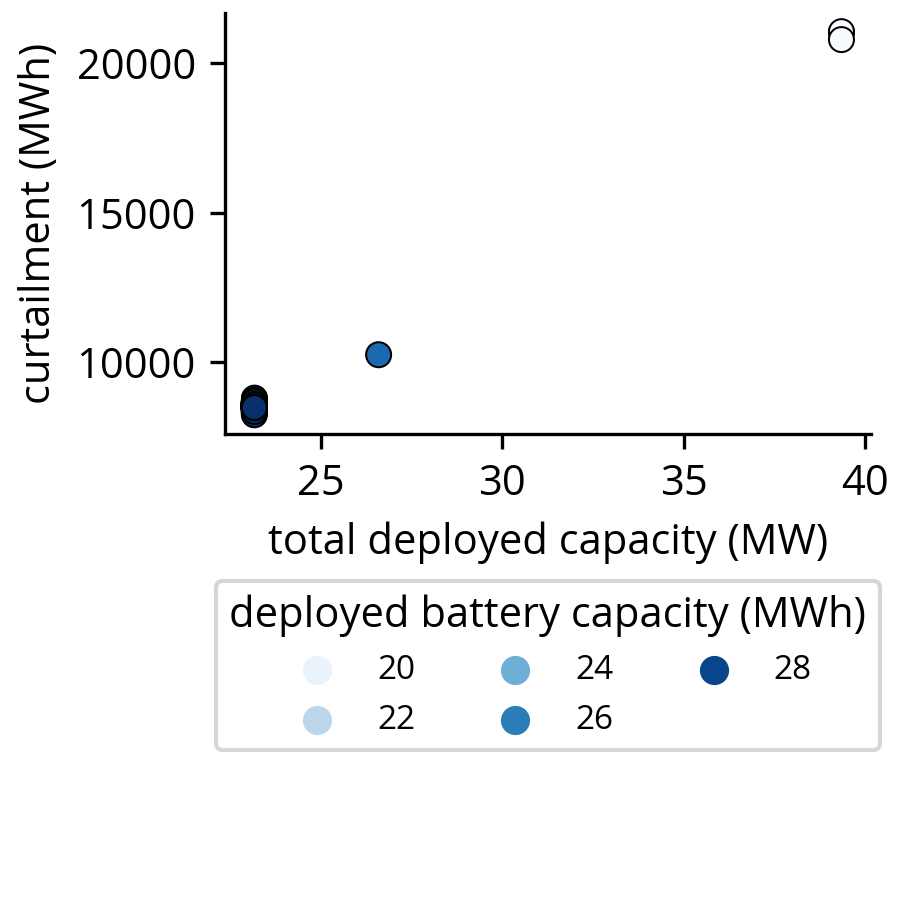
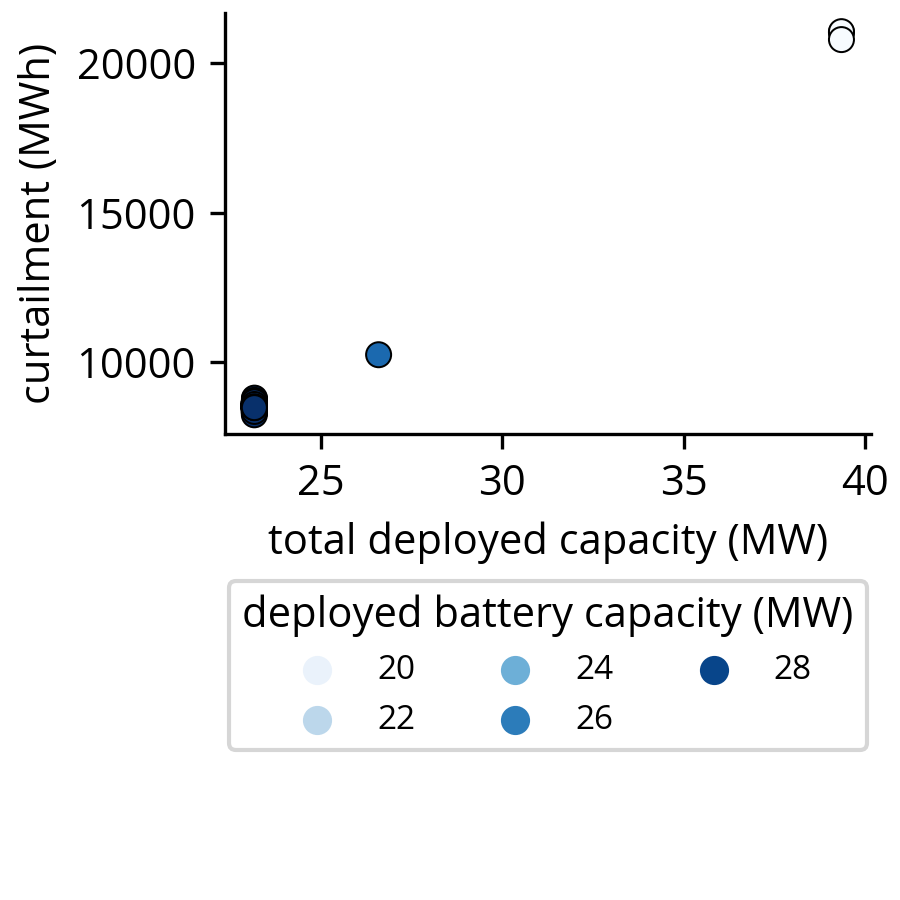
fixe margins etc

Changed region(s): [[0.2178, 0.6533, 0.9956, 0.84]]

diff --git a/thesis scripts/experiments/evhub/analysis/report_evhub_postprocess2_barcharts.py b/thesis scripts/experiments/evhub/analysis/report_evhub_postprocess2_barcharts.py
@@ -24,121 +24,23 @@ experiments, outcomes, db = load_ema_leso_results(
     exp_prefix="evhub",
     results_folder=RESULT_FOLDER)
 
-# ==========================================================================================
-
-grid_cap = 0
-## data selection
-
-df = db.query(f"grid_capacity == {grid_cap}").copy(deep=True)
-exp = open_leso_experiment_file(RESULT_FOLDER / df.filename_export.iat[113])
-
-## needed for more kpis
-spec_yield_pv = (
-    sum(exp.components.pv2.state['power [+]']) /
-    exp.components.pv2.settings.installed 
-)
-tot_yield_wind = sum(exp.components.wind1.state['power [+]'])
-
-## pointers
-pv_col = "PV South installed capacity"
-wind_col = "Nordex N100 2500 installed capacity"
-bat_col = "2h battery installed capacity"
-
-## change / add some data
-df['pv_cost_absolute'] = df.pv_cost_factor * 1020
-df['wind_cost_absolute'] = df.wind_cost_factor * 1350
-df['curtailment'] = -df['curtailment']
-df['total_generation'] = (df[pv_col] * spec_yield_pv + tot_yield_wind)
-df['relative_curtailment'] = df['curtailment'] / df['total_generation'] *100
-df['total_installed_capacity'] = df[pv_col] + df[wind_col]
-
-
-def linear_map(value, ):
-    min, max = 0.41, 0.70 # @@
-    map_min, map_max = 0.42, 0.81 # @@
-
-    frac = (value - min) / (max-min)
-    m_value = frac * (map_max-map_min) + map_min
-
-    return m_value
-
-power_ref = 257
-storage_ref = 277
-
-df["battery_cost_absolute_2h"] = [
-    (bcf * storage_ref *2 + linear_map(bcf)*power_ref)/2
-    for bcf in df["battery_cost_factor"].values
-]
-#%%
-
-cols_of_interest = [pv_col, wind_col, bat_col]
-df_barplot = pd.DataFrame(index=cols_of_interest)
-
-# 3 configs for 0 grid cap
-# max battery deployment
-idx = df[pv_col].argmin()
-df_barplot["Reference"] = df.loc[df.index[idx],cols_of_interest].copy(deep=True)
-# min battery deployment
-idx = df[pv_col].argmax()
-df_barplot["PV oversized"] = df.loc[df.index[idx],cols_of_interest].copy(deep=True)
-# med battery deployment
-subset = df[df[bat_col]< 27.5]
-subset_idx = subset[bat_col].argmax()
-df_barplot["In-between"] = subset.loc[subset.index[subset_idx],cols_of_interest].copy(deep=True)
-
-
-#%% PV Deployment vs absolut cost scatter
-df_barplot.index = ['PV', 'wind', 'li-ion ESS']
-fig, ax = plt.subplots()
-fig, ax = default_matplotlib_style(fig, ax, decrease_legend=False)
-fig.set_size_inches(4,3)
-color={"PV": "#edc645", "wind": "steelblue", 'li-ion ESS': "dimgrey"}
-df_barplot.T.plot.bar(stacked=True, ax=ax, color=color)
-
-ax.set_ylabel("total capacity (MW)")
-ax.set_xticklabels(ax.get_xticklabels(), rotation = 0, fontsize=9)
-ax.legend(
-    bbox_to_anchor=(1.02, 0.5),
-    loc=6,
-    borderaxespad=0.0,
-    frameon=False,
-)
-
-
-for c in ax.containers:
-
-    # Optional: if the segment is small or 0, customize the labels
-    labels = [int(round(v.get_height(),0)) if v.get_height() > 0 else '' for v in c]
-    
-    # remove the labels parameter if it's not needed for customized labels
-    ax.bar_label(c, labels=labels, label_type='center', color="white")
-
-default_matplotlib_save(fig, FIG_FOLDER / f"report_evhub_grid-{grid_cap}_configurations.png")
-
-# %%
-# ==========================================================================================
-
-grid_cap = 0.5
-## data selection
-
-df = db.query(f"grid_capacity == {grid_cap}").copy(deep=True)
-
 ## needed for more kpis
 spec_yield_pv = 1025.307
 spec_yield_wind = 2937.6
 
+
 ## pointers
 pv_col = "PV South installed capacity"
 wind_col = "Nordex N100 2500 installed capacity"
 bat_col = "2h battery installed capacity"
 
 ## change / add some data
-df['pv_cost_absolute'] = df.pv_cost_factor * 1020
-df['wind_cost_absolute'] = df.wind_cost_factor * 1350
-df['curtailment'] = -df['curtailment']
-df['total_generation'] = (df[pv_col] * spec_yield_pv + df[wind_col]*spec_yield_wind)
-df['relative_curtailment'] = df['curtailment'] / df['total_generation'] *100
-df['total_installed_capacity'] = df[pv_col] + df[wind_col]
+db['pv_cost_absolute'] = db.pv_cost_factor * 1020
+db['wind_cost_absolute'] = db.wind_cost_factor * 1350
+db['curtailment'] = -db['curtailment']
+db['total_generation'] = (db[pv_col] * spec_yield_pv + db[wind_col]*spec_yield_wind)
+db['relative_curtailment'] = db['curtailment'] / db['total_generation'] *100
+db['total_installed_capacity'] = db[pv_col] + db[wind_col]
 
 
 def linear_map(value, ):
@@ -153,39 +55,89 @@ def linear_map(value, ):
 power_ref = 257
 storage_ref = 277
 
-df["battery_cost_absolute_2h"] = [
+db["battery_cost_absolute_2h"] = [
     (bcf * storage_ref *2 + linear_map(bcf)*power_ref)/2
-    for bcf in df["battery_cost_factor"].values
+    for bcf in db["battery_cost_factor"].values
 ]
-#%%
 
-cols_of_interest = [pv_col, wind_col, bat_col]
-df_barplot = pd.DataFrame(index=cols_of_interest)
 
-# 3 configs for 0 grid cap
-# max battery deployment
-idx = df[bat_col].argmax()
-df_barplot["Reference"] = df.loc[df.index[idx],cols_of_interest].copy(deep=True)
-# max pv deployment
-idx = df[pv_col].argmax()
-df_barplot["PV oversized"] = df.loc[df.index[idx],cols_of_interest].copy(deep=True)
-# med battery deployment
-subset = df[df[bat_col]< 15]
-subset_idx = subset[bat_col].argmax()
-df_barplot["In-between"] = subset.loc[subset.index[subset_idx],cols_of_interest].copy(deep=True)
+#%% enter the loop:
+grid_capacities = {
+    0: 27.5,
+    0.5: 15,
+    1: 9,
+    1.5: 3,
+}
 
-df_barplot.index = ['PV', 'wind', 'li-ion ESS']
-df_barplot = df_barplot.T
-df_barplot["grid"] = grid_cap
+ref_df = pd.DataFrame()
 
-#%% PV Deployment vs absolut cost scatter
+for grid_cap, filter_limit in grid_capacities.items():
+    df = db.query(f"grid_capacity == {grid_cap}").copy(deep=True)
+
+    cols_of_interest = [pv_col, wind_col, bat_col]
+    df_barplot = pd.DataFrame(index=cols_of_interest)
+
+    # 3 configs for 0 grid cap
+    # max battery deployment
+    idx = df[bat_col].argmax()
+    df_barplot["reference"] = df.loc[df.index[idx],cols_of_interest].copy(deep=True)
+    # med battery deployment
+    subset = df[df[bat_col]< filter_limit]
+    subset_idx = subset[bat_col].argmax()
+    df_barplot["in-between"] = subset.loc[subset.index[subset_idx],cols_of_interest].copy(deep=True)
+        # max pv deployment
+    idx = df[pv_col].argmax()
+    df_barplot["PV oversized"] = df.loc[df.index[idx],cols_of_interest].copy(deep=True)
+
+    if grid_cap == 1.5:
+        org_order = df_barplot.columns
+        df_barplot.columns = ["in-between","reference", "PV oversized"]
+        df_barplot = df_barplot[org_order]
+
+    df_barplot.index = ['PV', 'wind', 'li-ion ESS']
+    df_barplot = df_barplot.T
+    df_barplot["grid"] = grid_cap
+
+    #%% PV Deployment vs absolut cost scatter
+    fig, ax = plt.subplots()
+    fig, ax = default_matplotlib_style(fig, ax, decrease_legend=False)
+    fig.set_size_inches(4,3)
+    color={"PV": "#edc645", "wind": "steelblue", 'li-ion ESS': "darkseagreen", "grid": "darkgrey"}
+    df_barplot.plot.bar(stacked=True, ax=ax, color=color)
+
+    ax.set_ylabel("total capacity (MW)")
+    ax.set_xticklabels(ax.get_xticklabels(), rotation = 0, fontsize=9)
+    ax.legend(
+        bbox_to_anchor=(1.02, 0.5),
+        loc=6,
+        borderaxespad=0.0,
+        frameon=False,
+    )
+
+
+    for c in ax.containers:
+
+        # Optional: if the segment is small or 0, customize the labels
+        if c.get_label() == "grid":
+            labels = [round(v.get_height(),1) if v.get_height() > 0 else '' for v in c]
+        else:
+            labels = [int(v.get_height()) if v.get_height() > 0.5 else '' for v in c]
+        
+        # remove the labels parameter if it's not needed for customized labels
+        ax.bar_label(c, labels=labels, label_type='center', color="#404040")
+
+    default_matplotlib_save(fig, FIG_FOLDER / f"report_evhub_grid-{grid_cap}_configurations.png")
+
+    ref_df[f'{grid_cap} MW'] = df_barplot.T['reference']
+
 fig, ax = plt.subplots()
 fig, ax = default_matplotlib_style(fig, ax, decrease_legend=False)
 fig.set_size_inches(4,3)
 color={"PV": "#edc645", "wind": "steelblue", 'li-ion ESS': "darkseagreen", "grid": "darkgrey"}
-df_barplot.plot.bar(stacked=True, ax=ax, color=color)
+ref_df.T.plot.bar(stacked=True, ax=ax, color=color)
 
 ax.set_ylabel("total capacity (MW)")
+ax.set_xlabel("grid capacity")
 ax.set_xticklabels(ax.get_xticklabels(), rotation = 0, fontsize=9)
 ax.legend(
     bbox_to_anchor=(1.02, 0.5),
@@ -201,9 +153,10 @@ for c in ax.containers:
     if c.get_label() == "grid":
         labels = [round(v.get_height(),1) if v.get_height() > 0 else '' for v in c]
     else:
-        labels = [int(v.get_height()) if v.get_height() > 0 else '' for v in c]
+        labels = [int(v.get_height()) if v.get_height() > 0.5 else '' for v in c]
     
     # remove the labels parameter if it's not needed for customized labels
     ax.bar_label(c, labels=labels, label_type='center', color="#404040")
 
-default_matplotlib_save(fig, FIG_FOLDER / f"report_evhub_grid-{grid_cap}_configurations.png")
+default_matplotlib_save(fig, FIG_FOLDER / f"report_evhub_grid_configurations_compare.png")
+

diff --git a/thesis scripts/experiments/evhub/analysis/report_evhub_postprocess1.py b/thesis scripts/experiments/evhub/analysis/report_evhub_postprocess1.py
@@ -15,6 +15,7 @@ from LESO.plotting import default_matplotlib_save, default_matplotlib_style
 FOLDER = Path(__file__).parent
 FIG_FOLDER = FOLDER / "images"
 RESULT_FOLDER = FOLDER.parent / "results"
+LEFT_MARGIN = 0.15
 
 run_id = 210907
 
@@ -87,7 +88,7 @@ for grid_cap in grid_capacities:
         edgecolor="black"
     )
 
-    ax.set_ylabel("deployed PV capacity (MWp)")
+    ax.set_ylabel("deployed PV \n capacity (MWp)")
     # ax.set_ylim([-1, 20])
 
     ax.set_xlabel("PV capacity cost (€/kWp)")
@@ -120,7 +121,7 @@ for grid_cap in grid_capacities:
         edgecolor="black"
     )
 
-    ax.set_ylabel("deployed battery capacity (MWh)")
+    ax.set_ylabel("deployed battery \n capacity (MW)")
     # ax.set_ylim([-1, 20])
 
     ax.set_xlabel("battery capacity cost (€/kWh)")
@@ -135,7 +136,7 @@ for grid_cap in grid_capacities:
     )
     plt.setp(l.get_title(), multialignment='center')
 
-    default_matplotlib_save(fig, FIG_FOLDER / f"report_evhub_grid-{grid_cap}_battery_deployment_vs_cost.png")
+    default_matplotlib_save(fig, FIG_FOLDER / f"report_evhub_grid-{grid_cap}_battery_deployment_vs_cost.png", adjust_left=LEFT_MARGIN)
 
     #%% Wind deployment vs absolut cost scatter
 
@@ -153,7 +154,7 @@ for grid_cap in grid_capacities:
         edgecolor="black"
     )
 
-    ax.set_ylabel("deployed wind capacity (MW)")
+    ax.set_ylabel("deployed wind \n capacity (MW)")
     # ax.set_ylim([-1, 20])
 
     ax.set_xlabel("wind capacity cost (€/kW)")
@@ -196,7 +197,7 @@ for grid_cap in grid_capacities:
         loc=9,
         borderaxespad=0.0,
         frameon=True,
-        title="deployed battery capacity (MWh)",
+        title="deployed battery capacity (MW)",
         ncol=3,
     )
 
@@ -228,7 +229,7 @@ for grid_cap in grid_capacities:
         loc=9,
         borderaxespad=0.0,
         frameon=True,
-        title="deployed battery capacity (MWh)",
+        title="deployed battery capacity (MW)",
         ncol=3,
     )
 
@@ -306,7 +307,7 @@ for grid_cap in grid_capacities:
         edgecolor="black"
     )
 
-    ax.set_ylabel("PV capacity cost (€/kWp)")
+    ax.set_ylabel("PV capacity \ncost (€/kWp)")
     # ax.set_ylim([160, 310])
 
     ax.set_xlabel("wind capacity cost (€/kW)")

diff --git a/LESO/plotting.py b/LESO/plotting.py
@@ -44,10 +44,14 @@ def default_matplotlib_style(
     
     return fig, ax
 
-def default_matplotlib_save(fig: plt.figure, filename: str, dpi=300, pad=None):
+def default_matplotlib_save(fig: plt.figure, filename: str, dpi=300, pad=None, adjust_left = None):
     if pad is None:
         pad=PAD
     plt.tight_layout(pad=pad)
+    
+    if adjust_left is not None:
+        plt.subplots_adjust(left=adjust_left)
+    
     plt.savefig(filename, dpi=dpi)
 
 
